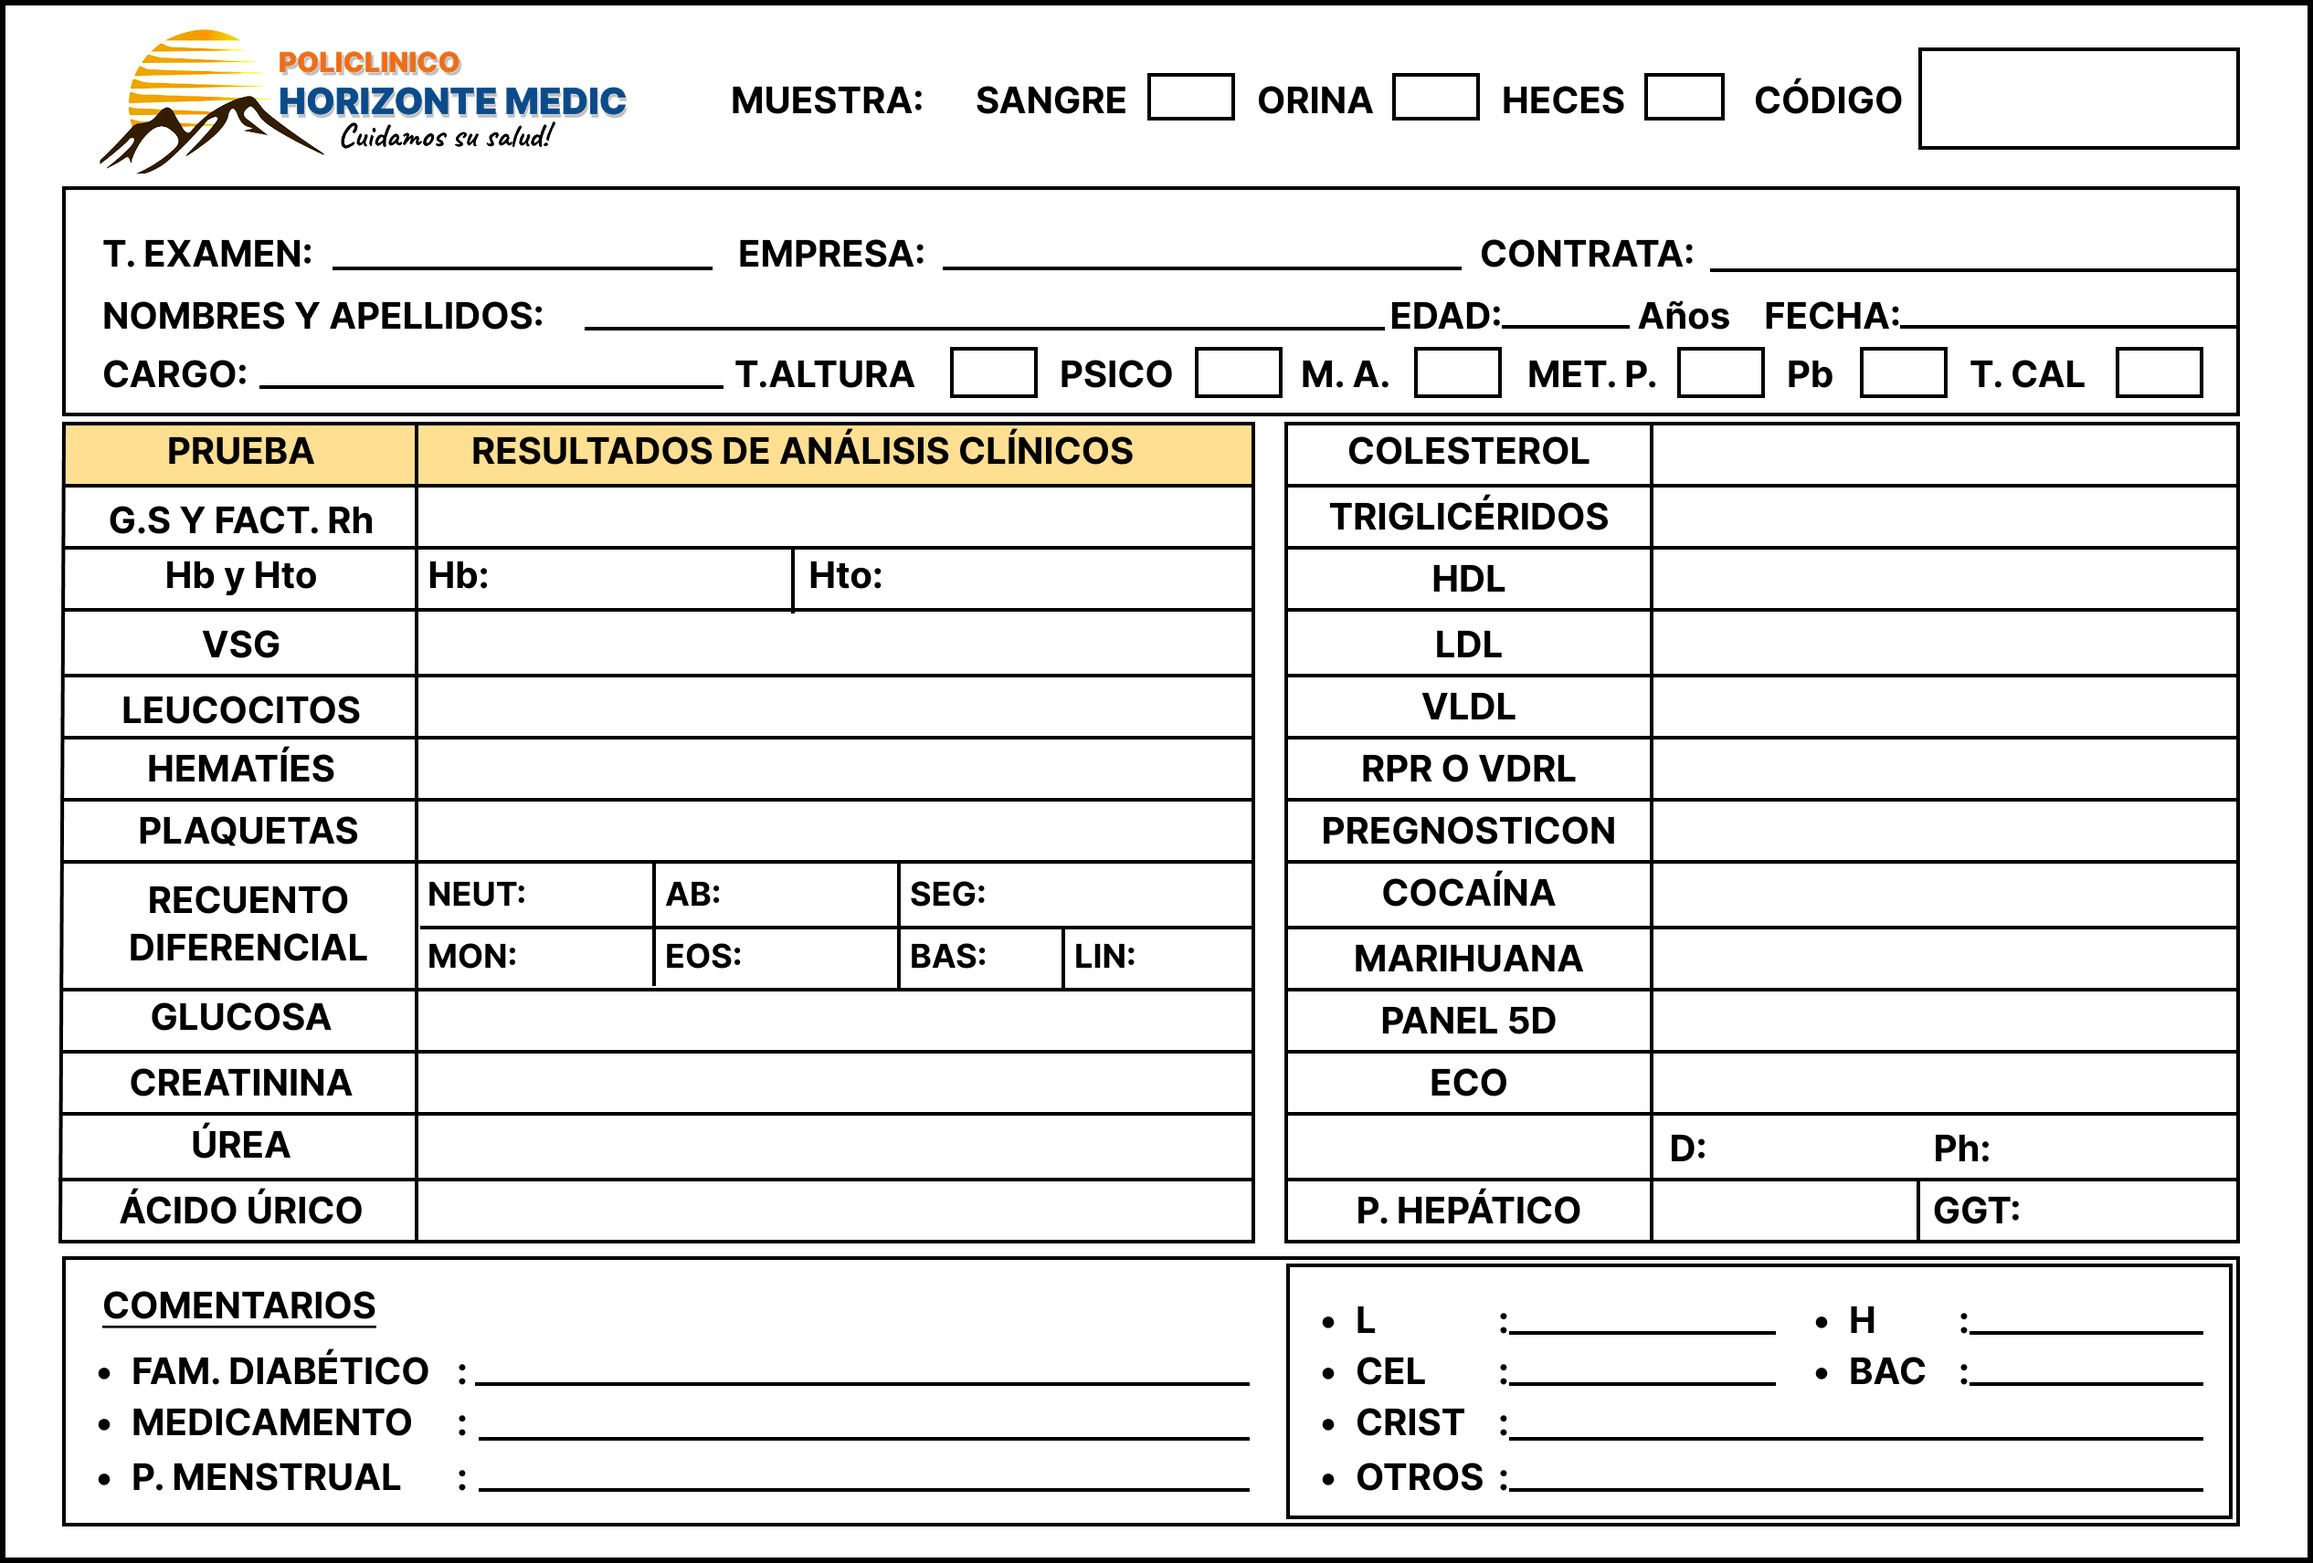
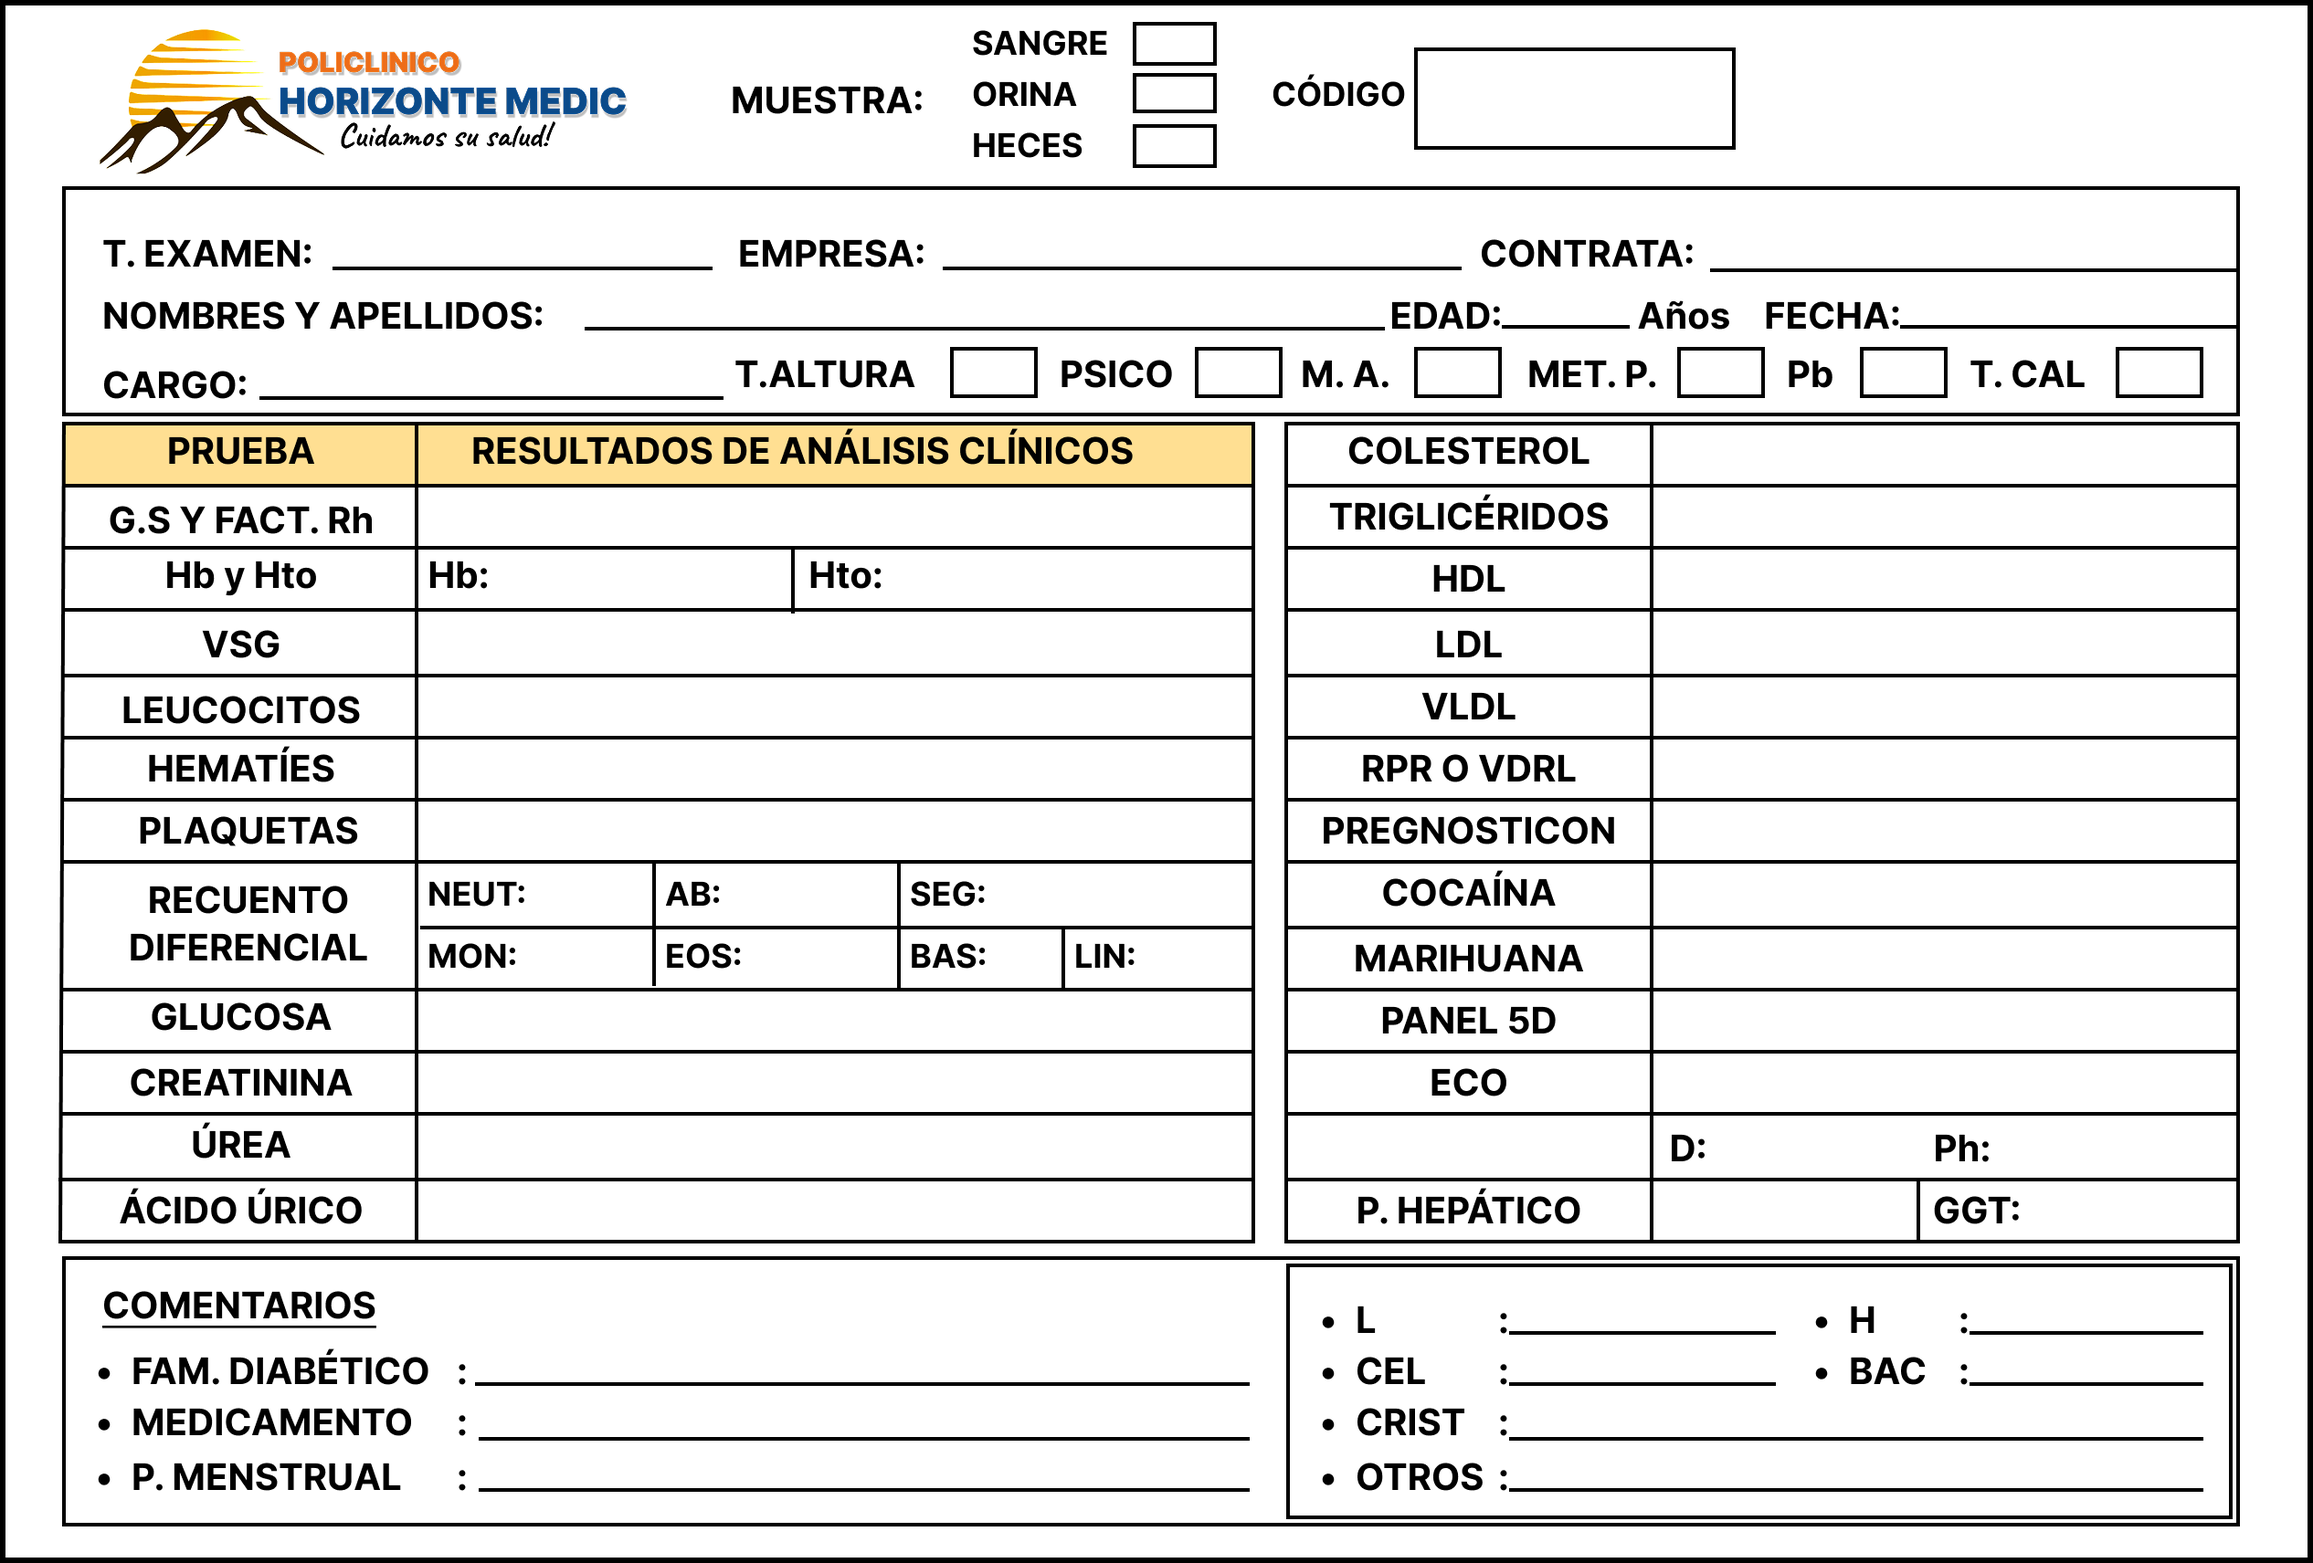
recibir

Changed region(s): [[0.4056, 0.0, 0.8424, 0.1238], [0.1248, 0.2477, 0.312, 0.2786], [0.0312, 0.2167, 0.1248, 0.2786]]

diff --git a/src/views/jaspers/ReporteExamen1.jsx b/src/views/jaspers/ReporteExamen1.jsx
@@ -178,7 +178,7 @@ export default function ReporteExamen1 (datos){
             // === COLOCAR DATOS DE PRUEBA EN EL FRAME ===
             // Configuración de fuentes para los datos
             doc.setFont("helvetica", "normal");
-            doc.setFontSize(10);
+            doc.setFontSize(9);
             
             // === COLOCAR DATOS REALES EN EL FRAME ===
             // MUESTRA - Checkbox SANGRE (siempre marcado por defecto)
@@ -188,32 +188,64 @@ export default function ReporteExamen1 (datos){
             // CÓDIGO
             doc.setFont("helvetica", "bold");
             doc.setFontSize(20);
-            doc.text(String(datos.orden || "148055"), 176.5, 12); // X: 80, Y: 35 - Ajustado para ser más visible
+            doc.text(String(datos.orden || "148055"), 131, 12); // X: 80, Y: 35 - Ajustado para ser más visible
             
             // Restaurar fuente normal para los campos siguientes
             doc.setFont("helvetica", "normal");
-            doc.setFontSize(8);
+            doc.setFontSize(9);
             
             // TIPO DE EXAMEN
-            doc.text(String(datos.examen || "EXAMEN OCUPACIONAL"), 31,25.3); // X: 35, Y: 60
+            doc.setFontSize(8.5);
+            doc.text(String(datos.examen || "EXAMEN OCUPACIONAL"), 30,25.3);
+            doc.setFontSize(9); // Restaurar tamaño de fuente para los siguientes campos
             
-            // EMPRESA
-            doc.text(String(datos.empresa || "EMPRESA NO ESPECIFICADA"), 85.5, 25.3); // X: 35, Y: 68
+            // EMPRESA - Con ancho máximo y ajuste de posición Y hacia arriba
+            const empresaTexto = String(datos.empresa || "EMPRESA NO ESPECIFICADA ");
+            const empresaMaxWidth = 50; // Ancho máximo para empresa
+            const empresaLines = doc.splitTextToSize(empresaTexto, empresaMaxWidth);
+            const empresaY = 25.3; // Posición Y base (última línea)
+            empresaLines.forEach((line, index) => {
+                // Calcular Y para que la última línea esté en empresaY y las anteriores arriba
+                const lineY = empresaY - ((empresaLines.length - 1 - index) * 3);
+                doc.text(line, 85.5, lineY);
+            });
             
-            // CONTRATA
-            doc.text(String(datos.contrata || "CONTRATA NO ESPECIFICADA"), 155, 25.3); // X: 35, Y: 76
+            // CONTRATA - Con ancho máximo y ajuste de posición Y hacia arriba
+            const contrataTexto = String(datos.contrata || "CONTRATA NO ESPECIFICADA");
+            const contrataMaxWidth = 50; // Ancho máximo para contrata
+            const contrataLines = doc.splitTextToSize(contrataTexto, contrataMaxWidth);
+            const contrataY = 25.3; // Posición Y base (última línea)
+            contrataLines.forEach((line, index) => {
+                // Calcular Y para que la última línea esté en contrataY y las anteriores arriba
+                const lineY = contrataY - ((contrataLines.length - 1 - index) * 3);
+                doc.text(line, 155, lineY);
+            });
             
             // NOMBRES Y APELLIDOS
-            doc.text(String(datos.nombres || "JOSUE SPENCER ROJAS SIGUENZA"), 53.5, 31); // X: 35, Y: 84
-            
+            doc.setFontSize(10);
+            doc.text(String(datos.nombres || "NOMBRE DE PRUEBA PACIENTE"), 53.5, 31); // X: 35, Y: 84
+            doc.setFontSize(9); // Restaurar tamaño de fuente para los siguientes campos
+
             // EDAD
+            doc.setFontSize(10.5);
             doc.text(datos.edad ? `${String(datos.edad)}` : "30", 140, 31); // X: 120, Y: 84
+            doc.setFontSize(9); // Restaurar tamaño de fuente para los siguientes campos
             
             // FECHA
+            doc.setFontSize(10.5);
             doc.text(String(formatearFecha(datos.fecha) || "23/08/2025"), 175, 31); // X: 160, Y: 84
+            doc.setFontSize(9); // Restaurar tamaño de fuente para los siguientes campos
             
-            // CARGO
-            doc.text(String(datos.cargo || "ADMIN DEL BAHIA ROSA"), 25, 36.2); // X: 35, Y: 92
+            // CARGO - Con ancho máximo y ajuste de posición Y hacia arriba
+            const cargoTexto = String(datos.cargo || "CARGO NO ESPECIFICADO");
+            const cargoMaxWidth = 48; // Ancho máximo para cargo
+            const cargoLines = doc.splitTextToSize(cargoTexto, cargoMaxWidth);
+            const cargoY = 37.8; // Posición Y base (última línea)
+            cargoLines.forEach((line, index) => {
+                // Calcular Y para que la última línea esté en cargoY y las anteriores arriba
+                const lineY = cargoY - ((cargoLines.length - 1 - index) * 3);
+                doc.text(line, 24.5, lineY);
+            });
             
             // === CHECKBOXES DE EVALUACIONES ===
             doc.setFont("helvetica", "bold");
@@ -264,7 +296,7 @@ export default function ReporteExamen1 (datos){
             
             // Restaurar fuente normal
             doc.setFont("helvetica", "normal");
-            doc.setFontSize(10);
+            doc.setFontSize(9);
             
         } catch (error) {
             console.error("No se pudo cargar la imagen de la hoja de ruta:", error);
